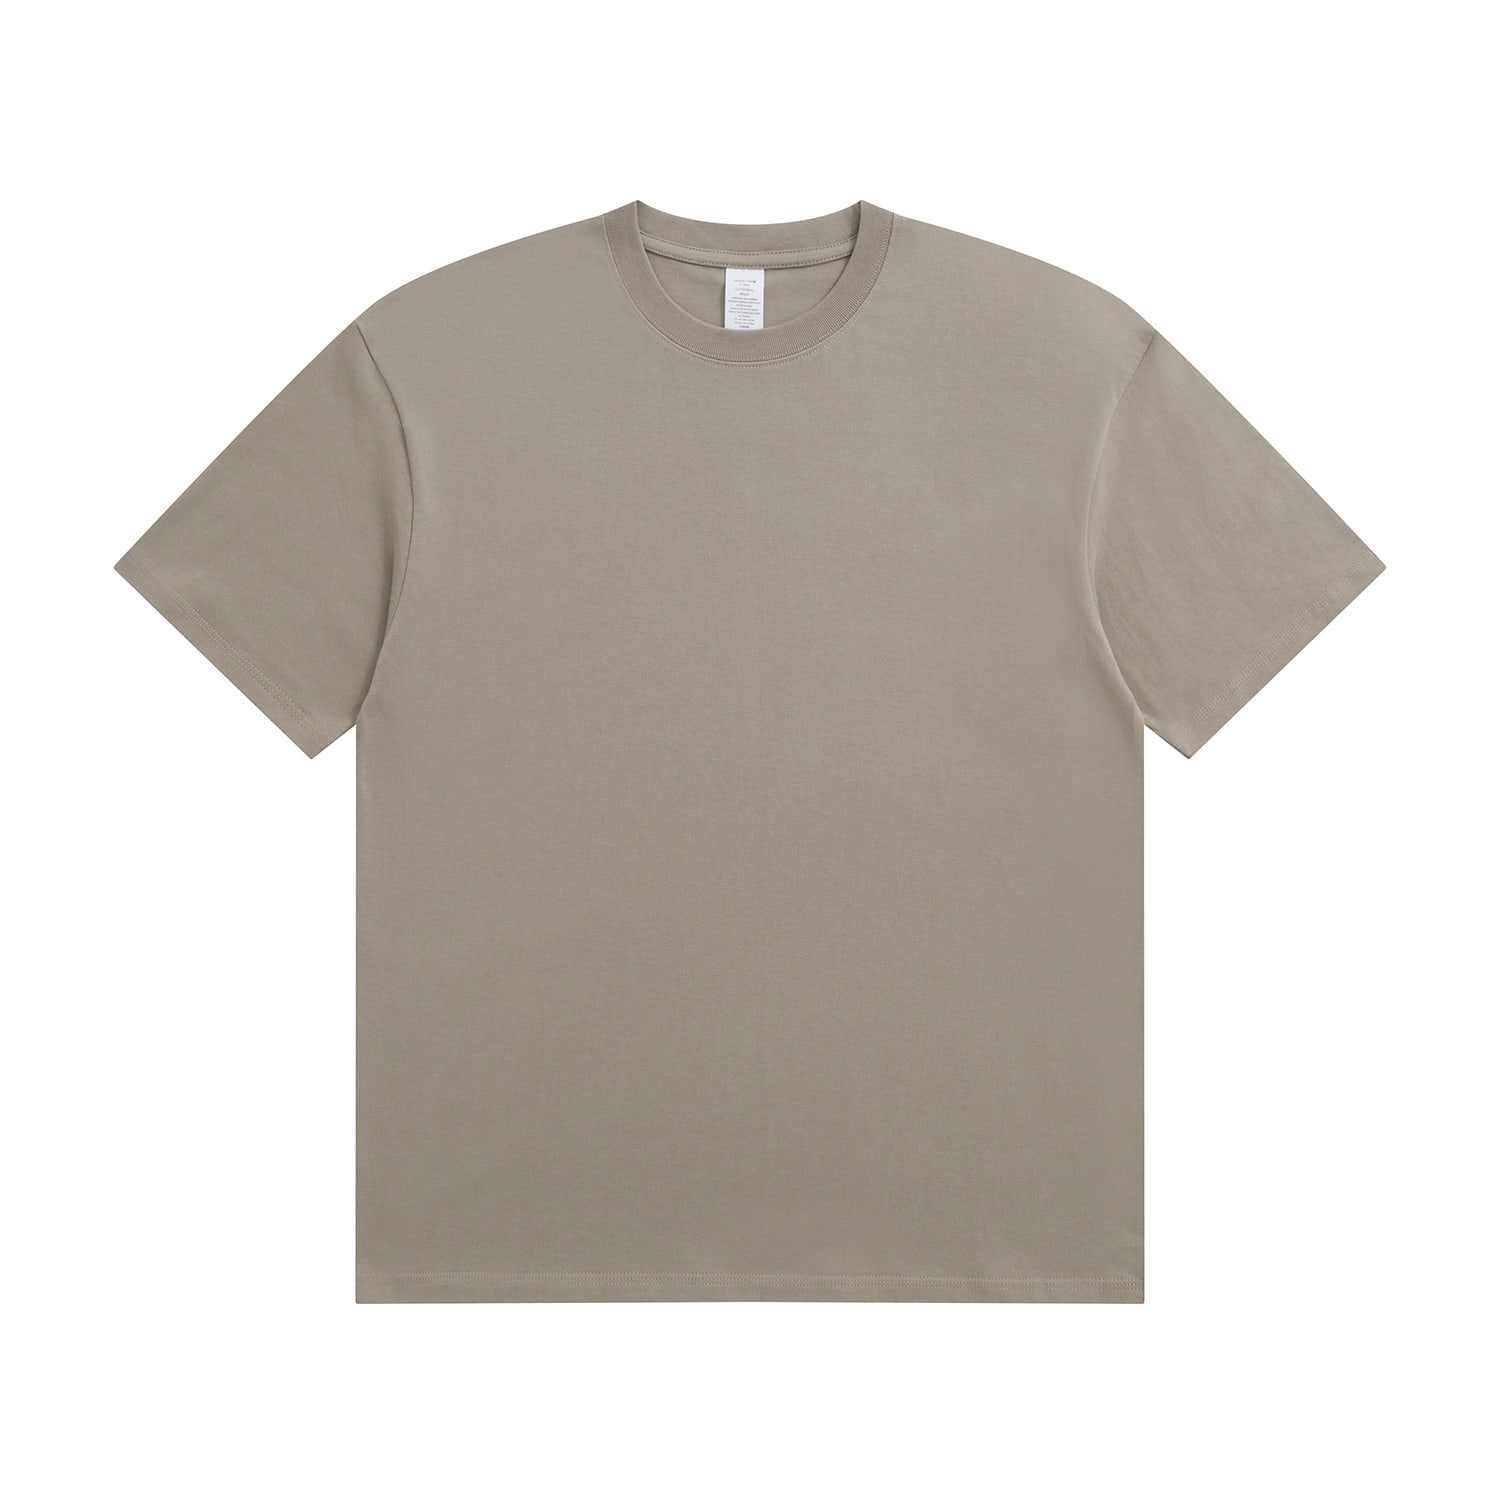
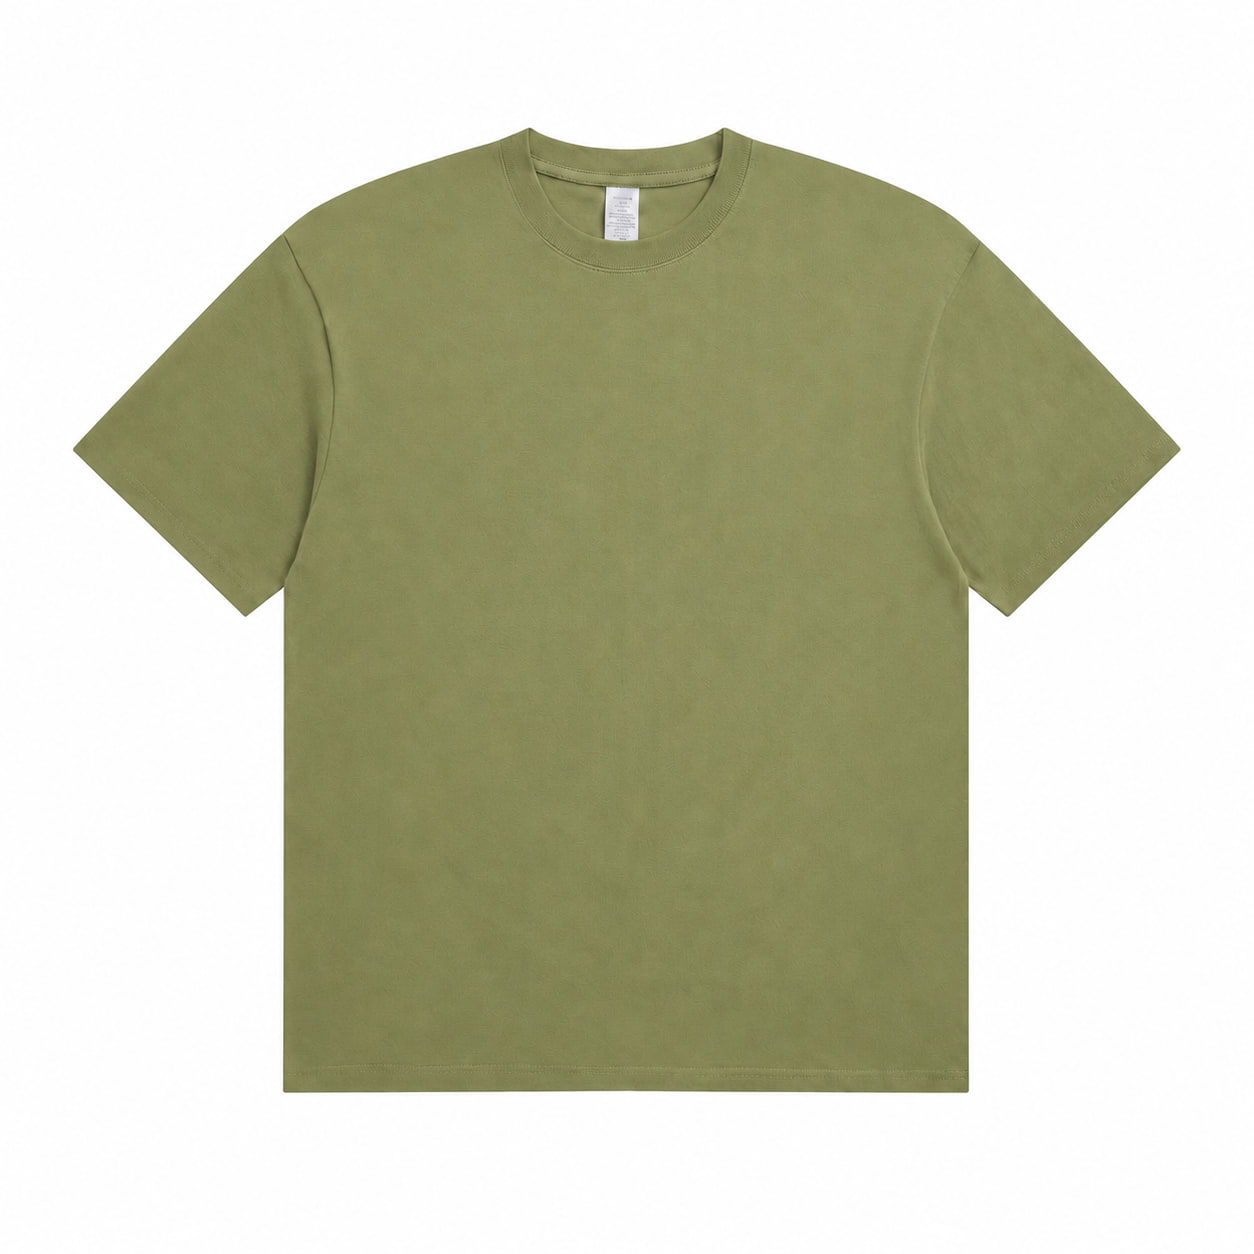
Update 03XA5 grass green color

diff --git a/data/products.js b/data/products.js
@@ -1040,9 +1040,9 @@
         "nameKr": "그래스 그린",
         "nameCn": "草绿色",
         "nameEn": "Grass Green",
-        "hex": "#5F685A",
-        "rgb": "95, 104, 90",
-        "pantone": "5615 C 부근",
+        "hex": "#9CA668",
+        "rgb": "156, 166, 104",
+        "pantone": "5777 C 부근",
         "nameJa": "グラスグリーン",
         "image": "images/products/03XA5/colors/03XA5-04.jpg",
         "fallbackImages": []

diff --git a/js/main.js b/js/main.js
@@ -10,7 +10,7 @@
   const productData = window.products || [];
   const page = document.body.dataset.page;
   const catalogSummary = window.catalogSummary || {};
-  const assetVersion = "20260710-clean-urls";
+  const assetVersion = "20260730-03xa5-color";
   const sampleListKey = "tworld-sample-list-v1";
   const sampleContactKey = "tworld-sample-contact-v1";
   const kakaoTalkUrl = "https://open.kakao.com/o/spcUfEvi";

diff --git a/product-detail.html b/product-detail.html
@@ -41,7 +41,7 @@
     <div><a href="products.html">PRODUCTS</a><a href="contact.html">CONTACT</a></div>
   </footer>
 
-  <script src="data/products.js?v=20260728-7001-sizes"></script>
-  <script src="js/main.js?v=20260710-clean-urls"></script>
+  <script src="data/products.js?v=20260730-03xa5-color"></script>
+  <script src="js/main.js?v=20260730-03xa5-color"></script>
 </body>
 </html>

diff --git a/products.html b/products.html
@@ -113,7 +113,7 @@
     <div><a href="about.html">ABOUT</a><a href="contact.html">CONTACT</a></div>
   </footer>
 
-  <script src="data/products.js?v=20260728-7001-sizes"></script>
-  <script src="js/main.js?v=20260710-clean-urls"></script>
+  <script src="data/products.js?v=20260730-03xa5-color"></script>
+  <script src="js/main.js?v=20260730-03xa5-color"></script>
 </body>
 </html>

diff --git a/index.html b/index.html
@@ -268,7 +268,7 @@
     </div>
   </footer>
 
-  <script src="data/products.js?v=20260728-7001-sizes"></script>
-  <script src="js/main.js?v=20260710-clean-urls"></script>
+  <script src="data/products.js?v=20260730-03xa5-color"></script>
+  <script src="js/main.js?v=20260730-03xa5-color"></script>
 </body>
 </html>

diff --git a/contact.html b/contact.html
@@ -125,6 +125,6 @@
     <div><a href="products.html">PRODUCTS</a><a href="lookbook.html">LOOKBOOK</a></div>
   </footer>
 
-  <script src="js/main.js?v=20260710-clean-urls"></script>
+  <script src="js/main.js?v=20260730-03xa5-color"></script>
 </body>
 </html>

diff --git a/about.html b/about.html
@@ -105,6 +105,6 @@
     <div><a href="products.html">PRODUCTS</a><a href="contact.html">CONTACT</a></div>
   </footer>
 
-  <script src="js/main.js?v=20260710-clean-urls"></script>
+  <script src="js/main.js?v=20260730-03xa5-color"></script>
 </body>
 </html>

diff --git a/lookbook.html b/lookbook.html
@@ -78,6 +78,6 @@
     <div><a href="products.html">PRODUCTS</a><a href="contact.html">CONTACT</a></div>
   </footer>
 
-  <script src="js/main.js?v=20260710-clean-urls"></script>
+  <script src="js/main.js?v=20260730-03xa5-color"></script>
 </body>
 </html>
